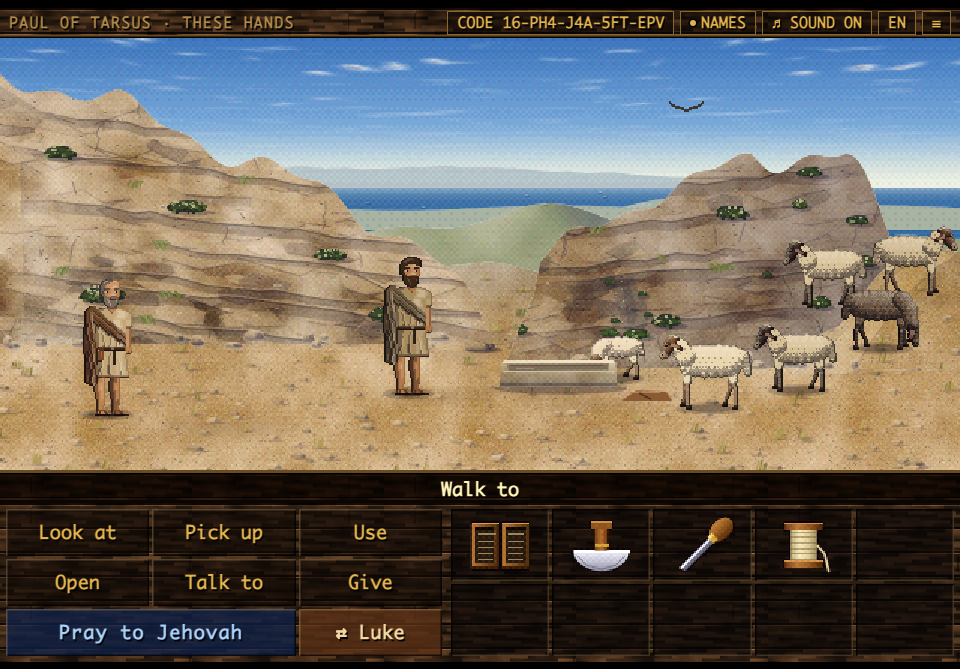
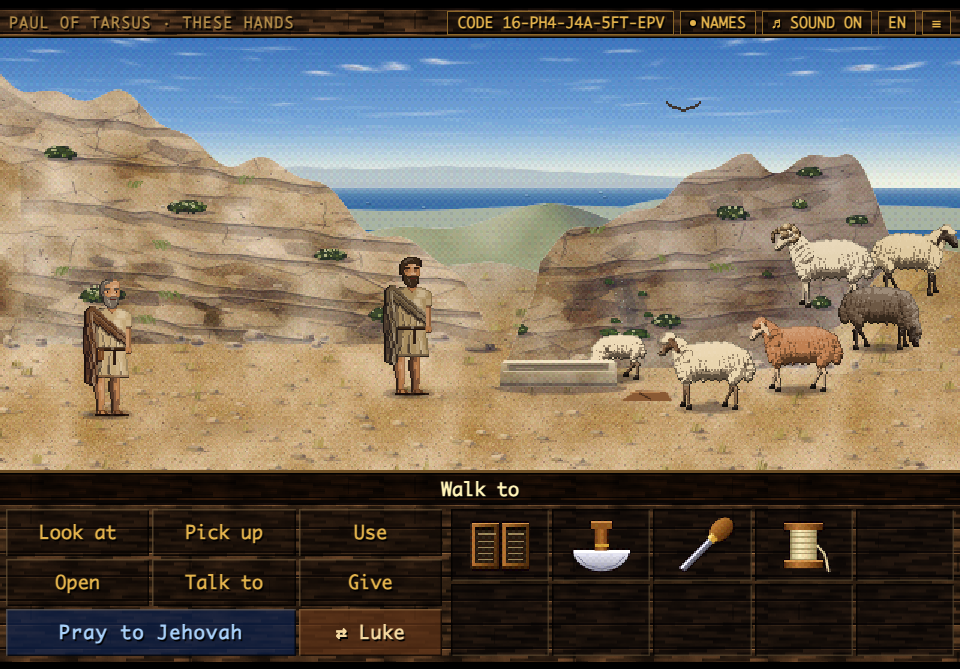
Redraw the sheep after the reference and wire their bleat on Chapter Sixteen's pass

Changed region(s): [[0.625, 0.3288, 1.0, 0.5979], [0.6875, 0.1495, 0.7188, 0.1794]]

diff --git a/shared/beasts.js b/shared/beasts.js
@@ -10,10 +10,10 @@
      mule(g, x, y, dir, fr, load, lit, z)     a pack mule, the same way
      ox(g, x, y, dir, fr, coat, gar, lit, z)  an ox or a bull. coat: its color. gar: a garland round its neck (Acts 14:13). z: depth override
                                               when a yoked team sorts together while still queuing its floor/wall shadows in SQ
-     sheep(g, x, y, dir, fr, look, lit, z)    a ewe or a lamb. look: a number, one of the flock's looks (SHEEP.LOOKS; 6 and 7 are lambs), or
-                                              {fl, face, k, lamb}. fr: 0 stands, 4 to 19 walk, 20 and 21 bleat, 22 and 23 chew, 24 and 25 graze
+     sheep(g, x, y, dir, fr, look, lit, z)    a ewe, ram or lamb. look: a number, one of the flock's looks (SHEEP.LOOKS; 4 is a horned ram, 6 and 7 are lambs), or
+                                              {fl, face, k, ram, lamb}. fr: 0 stands, 4 to 19 walk, 20 and 21 bleat, 22 and 23 chew, 24 and 25 graze
      sheepStill(g, x, y, dir, fr, look)       a sheep painted into a backdrop, with its contact shadow
-     flock(n, seed)                           n sheep's {look, dir, fr}: their looks, ways and poses, a lamb for every three ewes; the room
+     flock(n, seed)                           n sheep's {look, dir, fr}: their looks, ways and poses, a lamb for every three adults and at most one ram; the room
                                               places them, far enough apart that no head lies over another sheep's body
    Walking: everybody covers ground at WALK_V, the animals too, so that a donkey keeps up with whoever leads it.
      frame.donkey(dist, v), frame.mule(dist, v), frame.ox(dist, v), frame.sheep(dist, v, look)
@@ -650,124 +650,198 @@ const OX=(()=>{
 
 /* ================================================================= the sheep ================================================================ */
 const SHEEP=(()=>{
-  /* A ewe of the broad-tailed kind kept in the hills of Asia and Syria, and her lamb: a deep cream fleece in lumpy locks, shaded as a
-     rounded mass lit from above, that hangs a little below the belly line so that the legs come out from under it; a fleece-covered
-     neck carried forward and low; a long, narrow, slightly Roman-nosed head in a darker face color, bare of wool, with a paler muzzle,
-     a dark nostril and a dark almond eye; long ears that droop sideways and back from the poll (never pricked, so that ears and head
-     never make a cross); thin shanks, pale above the dark hooves, the far ones a tone darker and, standing, two drawing units higher in
-     three-quarter perspective; and a broad tail set on at the rump that hangs down over the back of the thighs, in the fleece's own
-     tones. The lamb is a look of its own, not a smaller copy: a shorter, rounder body, longer legs for its size, a bigger head and
-     shorter ears.
+  /* A ewe, ram or lamb of the broad-tailed kind kept in the hills of Asia and Syria, redrawn after the maintainer's reference picture: a deep,
+     plush shaggy fleece in flowing vertical-diagonal locks, shaded in warm earthy tones with sculpted woolly thigh and brisket masses that hang
+     low over the belly; a plump broad-tail cushion set on at the rump; a thick woolly neck blending smoothly out of the shoulder in curved
+     collar folds up into a woolly poll cap crowning the head; a compact, slightly Roman-nosed bare head turned three-quarters toward us, with a
+     light plane along the bridge of the nose, a dark eye with a subtle brow and pale lower lid, and soft pendulous lop ears hanging down beside
+     the cheek (never sticking out or pricked, so ears and head never make a cross); and shorter, sturdier tapering legs in the face's tones with
+     pointed hocks and compact cloven hooves (at rest, the far hooves sit two drawing units higher in three-quarter perspective). A ram (ram:1)
+     carries a fuller ringed neck and thick ribbed horns curving back, down behind the cheek and forward at the tips. A lamb (lamb:1) is a look
+     of its own: a shorter, plumper curly-wool body, taller slender legs for its size, a bigger head and shorter drooping ears.
      Frames: 0 stands; 4 to 19 walk (1, 2, 3 are three moments of that walk); 20 and 21 bleat, the head up and the mouth open; 22 and 23
      chew, the head up and the jaw moving; 24 and 25 graze, the head down to the grass (24 the muzzle in it, 25 lifted a little and chewing).
-     A look is {fl, face, k, lamb}: the fleece and face colors, k a size between about 0.9 and 1.1 (its body plan's measures times k, the
-     head and ears drawn at their own size), and lamb:1. A number picks one of the flock's looks (LOOKS). */
+     A look is {fl, face, k, ram, lamb}: the fleece and face colors, k a size between about 0.9 and 1.1 (its body plan's measures times k, the
+     head and ears drawn at their own size), ram:1, and lamb:1. A number picks one of the flock's looks (LOOKS). */
   const FW=FIG.W,FH=FIG.H,X0=FIG.OX,Y0=FIG.OY;
-  const LOOKS=[{fl:'#e4d8bc',face:'#6e4c34',k:1},{fl:'#d8ccb0',face:'#3a2e28',k:.94},{fl:'#ece2ca',face:'#8a6446',k:1.06},{fl:'#cfc2a6',face:'#5a4030',k:.97},
-    {fl:'#e8dcc2',face:'#c8b294',k:1.02},{fl:'#6a5a4c',face:'#2e2420',k:.98},{fl:'#efe6d2',face:'#7a5a40',k:1,lamb:1},{fl:'#e2d6be',face:'#3e322a',k:1,lamb:1}];
-  const look=v=>typeof v==='number'?LOOKS[((v%LOOKS.length)+LOOKS.length)%LOOKS.length]:Object.assign({fl:'#e4d8bc',face:'#6e4c34',k:1},v||{});
-  /* the body plans: hips and shoulders (SH, SF), where the legs go in (LT), the outline of the fleece, the neck, the head (its length and
-     its radius at the poll and the muzzle), the ears, the tail, the leg's radius, and the walk (REACH drawing units a stance, BEAT seconds) */
+  const LOOKS=[
+    {fl:'#e4d8bc',face:'#6a4a34',k:1},
+    {fl:'#e2d6b8',face:'#3e3129',k:.97},
+    {fl:'#c2885e',face:'#e4cdb2',k:1.02},
+    {fl:'#d6c8ac',face:'#583c2b',k:.98},
+    {fl:'#e8e1d0',face:'#dcd0ba',k:1.06,ram:1},
+    {fl:'#6e5d4f',face:'#342822',k:.98},
+    {fl:'#efe6d0',face:'#74543c',k:1,lamb:1},
+    {fl:'#e4d8be',face:'#3f322a',k:1,lamb:1}];
+  const look=v=>typeof v==='number'?LOOKS[((v%LOOKS.length)+LOOKS.length)%LOOKS.length]:Object.assign({fl:'#e4d8bc',face:'#6a4a34',k:1},v||{});
+  /* warm earthy five-tone ramp (highlight, light, base, shadow, deep) so cream and russet wool keep their warmth in shadow */
+  const warmRamp=(c,warm=1)=>{const[r,g,b]=hex(c),lum=(r*.3+g*.59+b*.11)/255,sh=warm?'#4a3220':'#362822',dp=warm?'#28180e':'#1c1410';
+    return[tint(c,lum>.78?.18:lum>.52?.26:.34),tint(c,lum>.78?.08:.13),c,mix(tint(c,-.22+.05*lum),sh,lum>.65?.32:.24),mix(tint(c,-.46+.08*lum),dp,lum>.65?.46:.38)]};
+  /* open Catmull-Rom curve keeping [x, y, r] along a horn's spiral */
+  const smoothOpen=(P,n=5)=>{const R=[],N=P.length,D=P[0].length;for(let i=0;i<N-1;i++){const p0=P[Math.max(0,i-1)],p1=P[i],p2=P[i+1],p3=P[Math.min(N-1,i+2)],steps=i===N-2?n+1:n;
+    for(let j=0;j<steps;j++){const t=j/n,t2=t*t,t3=t2*t,pt=[];for(let c=0;c<D;c++)pt.push(.5*(2*p1[c]+(p2[c]-p0[c])*t+(2*p0[c]-5*p1[c]+4*p2[c]-p3[c])*t2+(3*p1[c]-p0[c]-3*p2[c]+p3[c])*t3));R.push(pt)}}return R};
+  /* the body plans: hips and shoulders (SH, SF), where the legs go in (LT), the fleece barrel, woolly thigh and chest, neck, head, ears,
+     broad tail, leg radii, and the walk (REACH drawing units a stance, BEAT seconds) */
   const PLAN={
-    ewe:{SH:-15,SF:13,LT:-23,REACH:20,BEAT:.33,
-      body:[[-24,-35],[-21,-38.6],[-15,-40.4],[-8,-41],[0,-40.8],[7,-40.6],[13,-39],[17.5,-35.5],[19.4,-30.5],[17.6,-25.4],[13,-21.6],[6,-20.2],[-2,-19.8],[-10,-20.4],[-17,-22],[-22.4,-25.6],[-25.2,-30.6]],
-      neck:[[14,-33.5,6.6]],
-      head:{len:10.6,r0:4.3,r1:2.4,ear:9,earR:1.85},
-      poses:{rest:{px:23.6,py:-42.4,al:62,jaw:0,en:152,ef:190},20:{px:24.6,py:-44.4,al:32,jaw:16,en:158,ef:192},21:{px:24.8,py:-45,al:24,jaw:26,en:160,ef:192},22:{px:23.6,py:-42.4,al:62,jaw:7,en:152,ef:190},
-        23:{px:23.8,py:-42,al:65,jaw:0,chew:1,en:150,ef:188},24:{px:21.4,py:-15.2,al:82,jaw:0,low:1,en:112,ef:138},25:{px:21.6,py:-17.4,al:76,jaw:7,low:1,en:118,ef:144}},
-      tail:[[-22.6,-34,3.5],[-25,-23.4,2.8]],legR:[3.4,1.3]},
-    lamb:{SH:-10,SF:8.5,LT:-15.5,REACH:14,BEAT:.24,
-      body:[[-15.6,-24.6],[-13,-27.2],[-8,-28.6],[-1,-28.8],[5,-28.2],[9.6,-26],[12.2,-22.4],[11.4,-18.4],[8,-15.6],[2,-14.6],[-4,-14.6],[-10,-15.6],[-14.4,-18],[-16.2,-21.4]],
-      neck:[[8.5,-23.5,4.8]],
-      head:{len:9,r0:3.9,r1:2.2,ear:6.4,earR:1.55},
-      poses:{rest:{px:15.6,py:-31.6,al:56,jaw:0,en:152,ef:188},20:{px:16.6,py:-33.4,al:26,jaw:18,en:158,ef:192},21:{px:16.8,py:-33.8,al:18,jaw:28,en:160,ef:192},22:{px:15.6,py:-31.6,al:56,jaw:7,en:152,ef:188},
-        23:{px:15.8,py:-31.2,al:59,jaw:0,chew:1,en:150,ef:188},24:{px:14.6,py:-11.6,al:82,jaw:0,low:1,en:112,ef:138},25:{px:14.8,py:-13.2,al:74,jaw:7,low:1,en:118,ef:144}},
-      tail:[[-14.6,-23.6,2.4],[-16,-17.4,1.9]],legR:[2.5,1.15]}};
+    ewe:{SH:-14.5,SF:13.2,LT:-20.5,REACH:20,BEAT:.33,
+      body:[[-23.5,-35.2],[-19.2,-40.4],[-12,-42.8],[-4,-43.2],[4.2,-42.6],[11.5,-41.4],[17,-38.2],[20.2,-33],[20.6,-26.6],[18.2,-20.6],[14,-17.6],[8.2,-17.5],[1.2,-18],[-6.8,-18.2],[-14.5,-18.5],[-20.5,-20.8],[-24.5,-26.2],[-25.2,-31.5]],
+      thigh:[[-11.8,-39.2],[-18.2,-40.6],[-23,-36.8],[-24.6,-30.2],[-23,-22.8],[-19.4,-16.8],[-15.2,-15.8],[-12.4,-19.8],[-11,-26.8],[-10.6,-34]],
+      chest:[[8.5,-39.5],[14.5,-39],[19,-34.8],[21,-28.2],[19.8,-21.6],[16.2,-16.6],[11.8,-16.4],[9,-21],[7.8,-29]],
+      neck:[[14,-33,7.6]],
+      head:{len:10.4,r0:4,r1:2.15,ear:8.8,earR:1.95},
+      poses:{rest:{px:23.8,py:-43.4,al:54,jaw:0,en:116,ef:132},20:{px:24.6,py:-45.2,al:30,jaw:16,en:128,ef:142},21:{px:24.8,py:-45.8,al:22,jaw:26,en:132,ef:146},
+        22:{px:23.8,py:-43.4,al:54,jaw:7,en:116,ef:132},23:{px:24,py:-43,al:58,jaw:0,chew:1,en:114,ef:130},24:{px:21.4,py:-14.2,al:80,jaw:0,low:1,en:94,ef:108},
+        25:{px:21.6,py:-16.6,al:74,jaw:7,low:1,en:98,ef:112}},
+      tail:[[-22.2,-34.4,4.2],[-25.8,-25,4.2],[-25.2,-20.6,3.2]],legR:[3.1,1.22]},
+    lamb:{SH:-9.8,SF:8.4,LT:-15,REACH:14,BEAT:.24,
+      body:[[-15.8,-25.2],[-12.8,-28.8],[-7.2,-30.2],[-.8,-30.4],[5.2,-29.6],[10,-27.2],[12.8,-23],[12.6,-18],[9.4,-14.4],[3.2,-13.8],[-3.8,-13.8],[-10,-14.6],[-14.6,-17.4],[-16.6,-21.4]],
+      thigh:[[-8,-28],[-12.6,-28.8],[-15.6,-25.8],[-16.2,-21.2],[-14.6,-16.4],[-11.6,-13.2],[-8.8,-13.6],[-7.4,-18],[-7.2,-23.5]],
+      chest:[[5,-28.2],[9.4,-27.4],[12.4,-23.8],[12.8,-18.8],[10.6,-14.4],[7.6,-13.6],[5.2,-17.4],[4.4,-23]],
+      neck:[[8.6,-23.6,5.2]],
+      head:{len:8.4,r0:3.7,r1:2,ear:6.2,earR:1.6},
+      poses:{rest:{px:15.6,py:-32,al:50,jaw:0,en:118,ef:132},20:{px:16.4,py:-33.8,al:26,jaw:18,en:128,ef:142},21:{px:16.6,py:-34.2,al:18,jaw:28,en:132,ef:146},
+        22:{px:15.6,py:-32,al:50,jaw:7,en:118,ef:132},23:{px:15.8,py:-31.6,al:54,jaw:0,chew:1,en:116,ef:130},24:{px:14.6,py:-10.8,al:80,jaw:0,low:1,en:94,ef:108},
+        25:{px:14.8,py:-12.6,al:72,jaw:7,low:1,en:98,ef:112}},
+      tail:[[-14.6,-24.2,2.8],[-16.4,-18.2,2.4],[-16,-16.2,1.8]],legR:[2.35,1.08]}};
   const planOf=v=>v.lamb?PLAN.lamb:PLAN.ewe;
   const stride=v=>{const P=planOf(v);return P.REACH/.625/2};
   const frame=(dist,v,lk)=>{const L=look(lk),P=planOf(L),c=Math.max(stride(L),Math.abs(v==null?WALK_V:v)*P.BEAT);return 4+Math.floor((dist/c%1+1)%1*16)%16};
   const atPose=(W,ph,off,st,R)=>{if(!W)return{hx:st,lift:0,bend:0};const p=((ph-off)%1+1)%1,B=.625;if(p<B)return{hx:R/2-R*p/B,lift:0,bend:0};
     const v=(p-B)/(1-B),q=Math.sin(Math.PI*v);return{hx:-R/2*Math.cos(Math.PI*v),lift:v?1+Math.round(3.5*q):0,bend:q}};
   /* where each hoof stands: hind far, fore far, hind near, fore near (their phase and their place at rest) */
-  const HOOVES=[[.5,4.6,1],[.75,2.6,0],[0,-2.4,1],[.25,-.8,0]];
+  const HOOVES=[[.5,4.2,1],[.75,2.6,0],[0,-2.8,1],[.25,-1.2,0]];
   const shadowSpan=(fr,lk)=>{const L=look(lk),P=planOf(L),k=L.k||1,W=fr>=1&&fr<20,q=fr>=4?(fr-4)%16:(fr-1)*4,ph=q/16,
       xs=HOOVES.map(([off,st,hind])=>(hind?P.SH:P.SF)*k+atPose(W,ph,off,st,P.REACH).hx),x0=Math.min(...xs)-2.5,x1=Math.max(...xs)+3;return[(x1-x0)/4+1.3,(x0+x1)/4]};
   const smooth=(P,n=4)=>{const R=[],N=P.length;for(let i=0;i<N;i++){const p0=P[(i+N-1)%N],p1=P[i],p2=P[(i+1)%N],p3=P[(i+2)%N];
     for(let j=0;j<n;j++){const t=j/n,t2=t*t,t3=t2*t;R.push([0,1].map(c=>.5*(2*p1[c]+(p2[c]-p0[c])*t+(2*p0[c]-5*p1[c]+4*p2[c]-p3[c])*t2+(3*p1[c]-p0[c]-3*p2[c]+p3[c])*t3)))}}return R};
 
   function sheep(g,x,y,dir,fr,lk){g.save();g.translate(x,y);g.scale(dir*FIG.K,FIG.K);
-    const L=look(lk),P=planOf(L),k=L.k||1,lamb=!!L.lamb,FL=ramp(L.fl),FC=ramp(L.face),SK=ramp(mix(L.face,L.fl,.3)),HOOF=['#4a3e38','#3a302c','#2a221f','#1e1816','#141010'],
+    const L=look(lk),P=planOf(L),k=L.k||1,lamb=!!L.lamb,ram=!!L.ram&&!lamb,FL=warmRamp(L.fl,1),FC=warmRamp(L.face,0),
+      [fr0,fg0,fb0]=hex(L.face),fLum=(fr0*.3+fg0*.59+fb0*.11)/255,
+      SK=warmRamp(fLum<.32?mix(L.face,'#2c2420',.2):mix(L.face,L.fl,.14),0),
+      HOOF=['#4c423c','#3a312c','#29221e','#1d1714','#120e0c'],HORN=['#dfd2b6','#b8a280','#8c7558','#5e4c38','#34271c'],
       W=fr>=1&&fr<20,q=fr>=4&&fr<20?(fr-4)%16:W?(fr-1)*4:0,ph=q/16,o=W&&(q%8===4||q%8===5)?1:0,hd=W?[0,0,0,0,1,2,1,0][q%8]:0,
-      tl=W?Math.round(1.2*Math.cos(6.2832*(ph-.05))):0,HP=Object.assign({},P.poses[fr>=20?Math.min(25,fr):'rest']);
-    if(!HP.low){HP.py+=o+hd;HP.px+=hd*.4}
+      tl=W?Math.round(1.1*Math.cos(6.2832*(ph-.05))):0,HP=Object.assign({},P.poses[fr>=20?Math.min(25,fr):'rest']);
+    if(ram&&!HP.low){HP.py-=1.4;HP.px+=1.2;HP.al-=6}
+    if(!HP.low){HP.py+=o+hd;HP.px+=hd*.35}
     const Zb=new Float32Array(FW*FH).fill(-1e9),Cb=new Array(FW*FH),Pb=new Uint8Array(FW*FH);
     const idx=(px,py)=>py>=0||py<-Y0||px<-X0||px>=FW-X0?-1:(py+Y0)*FW+px+X0;
     const put=(px,py,z,col,part)=>{const i=idx(Math.floor(px),Math.floor(py));if(i>=0&&z>Zb[i]){Zb[i]=z;Cb[i]=col;Pb[i]=part}};
     const partAt=(px,py)=>{const i=idx(Math.floor(px),Math.floor(py));return i<0?0:Pb[i]};
     const set=(px,py,col)=>{const i=idx(Math.floor(px),Math.floor(py));if(i>=0&&Pb[i])Cb[i]=col};
-    const tn=(nx,ny,nz,px,py,ex)=>{const s=nx*.42-ny*.8+nz*.46+((px+py)&1?.05:-.05);return Math.max(0,Math.min(4,(s>.86?0:s>.56?1:s>.18?2:s>-.16?3:4)+(ex||0)))};
-    const hh=(a,b)=>{let n=Math.imul(a*73856093^b*19349663,0x85ebca6b);n^=n>>>13;return(n>>>0)%97};
-    /* wool: the form's light, broken into locks: each lock a pixel of light on its upper side and a pixel of shade under it, set in
-       staggered rows with a little jitter, so that no grid and no plus appears */
-    const wool=(ex,R)=>(nx,ny,nz,px,py)=>{const T=R||FL;let b=tn(nx,ny,nz,px,py,ex);const row=Math.floor((py-o+40)/3),sh=(row%2)*2+(hh(row,7)%2),cx=px+40+sh,lx=((cx%4)+4)%4,ly=((py-o+40)%3+3)%3,
-        j=hh(Math.floor(cx/4),row)%5;if(j<4){if((lx===1||lx===2&&j<2)&&ly===0)b=Math.max(0,b-1);else if(lx===2&&ly===2&&b>=2&&b<4)b++}return T[b]};
+    const tn=(nx,ny,nz,px,py,ex)=>{const s=nx*.34-ny*.84+nz*.42+((px+py)&1?.04:-.04);return Math.max(0,Math.min(4,(s>.84?0:s>.5?1:s>.1?2:s>-.24?3:4)+(ex||0)))};
+    const hh=(a,b)=>{let n=Math.imul((a|0)*73856093^(b|0)*19349663,0x85ebca6b);n^=n>>>13;return(n>>>0)%97};
+    /* wool: flowing vertical-diagonal hanging locks modulated gently (+/-1 tone) round the form's light, never a regular grid or plus */
+    const wool=(ex,mode=0)=>(nx,ny,nz,px,py)=>{const base=tn(nx,ny,nz,px,py,ex),Y=py-o;let b=base;
+      if(mode===2){const col=Math.floor((px+50)/2.8),off=hh(col,13)%4,vy=((Y+50+off)%4+4)%4;
+        if(nx>.48&&b<4)b++;else if(vy===0&&nx<.2&&b>0)b--;else if(vy===3&&b<3)b++;return FL[Math.max(0,Math.min(4,b))]}
+      const skirt=ny>.56?1:0,slant=lamb?.14:.22,u=px+60+(Y+46)*slant+Math.sin((Y+42)*.16)*.55,stepX=lamb?2.9:3.3,
+        col=Math.floor(u/stepX),f=u/stepX-col,stagger=hh(col,31)%5,len=lamb?4:5+(hh(col,17)%3),
+        yIn=(((Math.floor(Y)+60+stagger)%len)+len)%len,seed=hh(col,Math.floor((Math.floor(Y)+60+stagger)/len));
+      if(f>.14&&f<.58&&yIn<len-1){if((yIn===0||(yIn===1&&seed%3<2))&&ny<.3&&b>0)b--}
+      else if(f>=.74&&seed%5<3&&yIn>0&&ny>-.45)b=Math.min(4,base+1);
+      else if(yIn===len-1&&f>.25&&f<.8&&seed%3===0&&ny>-.2)b=Math.min(4,base+1);
+      if(skirt)b=Math.min(4,Math.max(b,base+1));
+      return FL[Math.max(0,Math.min(4,b))]};
     const cap=(x0,y0,r0,x1,y1,r1,cz,mat,part)=>{const dx=x1-x0,dy=y1-y0,L2=dx*dx+dy*dy||1,R=Math.max(r0,r1)+1;
       for(let py=Math.floor(Math.min(y0,y1)-R);py<=Math.max(y0,y1)+R;py++)for(let px=Math.floor(Math.min(x0,x1)-R);px<=Math.max(x0,x1)+R;px++){
         const X=px+.5-x0,Y=py+.5-y0;let t=(X*dx+Y*dy)/L2;t=t<0?0:t>1?1:t;const ex=X-dx*t,ey=Y-dy*t,d=Math.hypot(ex,ey),r=r0+(r1-r0)*t;if(d>r)continue;
         const kk=d/r,w=Math.sqrt(1-kk*kk);put(px,py,cz+r*w,mat(ex/r,ey/r,w,px,py,t),part)}};
-    const mass=(Pt,Lz,R,mat,part)=>{let x0=1e9,x1=-1e9,y0=1e9,y1=-1e9;for(const[a,b]of Pt){x0=Math.min(x0,a);x1=Math.max(x1,a);y0=Math.min(y0,b);y1=Math.max(y1,b)}const N=Pt.length;
+    const ell=(cx,cy,cz,a,b,mat,part)=>{const R=Math.max(a,b)+1;
+      for(let py=Math.floor(cy-R);py<=cy+R;py++)for(let px=Math.floor(cx-R);px<=cx+R;px++){const u=(px+.5-cx)/a,v=(py+.5-cy)/b,q2=1-u*u-v*v;if(q2<0)continue;
+        const w=Math.sqrt(q2),l=Math.hypot(u,v,w);put(px,py,cz+Math.max(a,b)*w,mat(u/l,v/l,w/l,px,py),part)}};
+    const mass=(Pt,Lz,R,mat,part,soft=1)=>{let x0=1e9,x1=-1e9,y0=1e9,y1=-1e9;for(const[a,b]of Pt){x0=Math.min(x0,a);x1=Math.max(x1,a);y0=Math.min(y0,b);y1=Math.max(y1,b)}const N=Pt.length;
       for(let py=Math.floor(y0);py<=y1;py++)for(let px=Math.floor(x0);px<=x1;px++){const cx=px+.5,cy=py+.5;let inn=false,best=1e9,ex=0,ey=0;
         for(let i=0,j=N-1;i<N;j=i++){const[ax,ay]=Pt[j],[bx,by]=Pt[i];if((ay>cy)!==(by>cy)&&cx<(bx-ax)*(cy-ay)/(by-ay)+ax)inn=!inn;
           const dx=bx-ax,dy=by-ay,l2=dx*dx+dy*dy||1;let t=((cx-ax)*dx+(cy-ay)*dy)/l2;t=t<0?0:t>1?1:t;const qx=ax+dx*t-cx,qy=ay+dy*t-cy,d2=qx*qx+qy*qy;if(d2<best){best=d2;ex=qx;ey=qy}}
-        if(!inn)continue;const d=Math.sqrt(best),qq=Math.max(0,1-d/R),l=d||1,nz=Math.sqrt(1-qq*qq);put(px,py,Lz+R*nz,mat(ex/l*qq,ey/l*qq,nz,px,py),part)}};
+        if(!inn)continue;const d=Math.sqrt(best),qq=Math.max(0,1-d/R)*soft,l=d||1,nz=Math.sqrt(1-qq*qq);put(px,py,Lz+R*nz,mat(ex/l*qq,ey/l*qq,nz,px,py),part)}};
     const K=p=>[p[0]*k,p[1]*k+o];
-    /* the legs, behind the fleece: a woolly thigh or forearm, then the thin shank to the hoof */
+    /* the legs: woolly upper cuff tapering into slim bare shanks with a pointed hock behind, knee in front, and dark cloven hooves */
     const leg=([off,st,hind],near)=>{const A=atPose(W,ph,off,st,P.REACH),ex=near?0:1,cz=near?-10:-60,gy=(!W&&!near)?-2:0,sx=(hind?P.SH:P.SF)*k,
-        tx=sx,ty=P.LT*k+o,hx=sx+A.hx,fy=gy-2.6-A.lift,b=A.bend,dx=hx-tx,dy=fy-ty,Ln=Math.hypot(dx,dy),bx=-dy/Ln,by=dx/Ln,
-        jt=hind?.52:.56,jo=hind?(1.2+1.6*b):-(.3+2.6*b),jx=tx+dx*jt+bx*jo,jy=ty+dy*jt+by*jo,[r0,r1]=P.legR,wx=tx+(jx-tx)*.45,wy=ty+(jy-ty)*.45,
-        sk=(nx,ny,nz,px,py)=>SK[Math.min(4,tn(nx,ny,nz,px,py,ex)+(near&&nx<-.3?1:0))];
-      cap(tx,ty,r0*1.1,wx,wy,r0*.78,cz,wool(ex+(near?0:1)),4);cap(wx,wy,r1*1.45,jx,jy,r1*1.2,cz-.5,sk,4);cap(jx,jy,r1*1.2,hx,fy,r1,cz+.5,sk,4);
+        tx=sx,ty=P.LT*k+o,hx=sx+A.hx,fy=gy-3-A.lift,b=A.bend,dx=hx-tx,dy=fy-ty,Ln=Math.hypot(dx,dy)||1,bx=-dy/Ln,by=dx/Ln,
+        [r0,r1]=P.legR,jt=hind?.46:.5,jo=hind?(2.1+1.8*b):-(.15+2.6*b),jx=tx+dx*jt+bx*jo,jy=ty+dy*jt+by*jo,wx=tx+(jx-tx)*.42,wy=ty+(jy-ty)*.42,
+        sk=(nx,ny,nz,px,py)=>{let tb=tn(nx,ny,nz,px,py,ex);if(near&&nx<-.35&&tb<4)tb++;return SK[Math.min(4,tb)]};
+      cap(tx,ty,r0*1.16,wx,wy,r0*.76,cz,wool(ex+(near?0:1),0),4);cap(wx,wy,r1*1.45,jx,jy,r1*1.12,cz-.4,sk,4);
+      if(hind)cap(jx,jy,r1*1.08,jx+bx*1.2,jy+by*1.2,r1*.72,cz+.2,sk,4);else ell(jx,jy,cz+.2,r1*1.18,r1*1.15,sk,4);
+      cap(jx,jy,r1*1.05,hx-.2,fy,r1*.9,cz+.4,sk,4);ell(hx-.1,fy,cz+.5,r1*1.08,r1*1.02,sk,4);
       const hm=(nx,ny,nz,px,py)=>HOOF[Math.min(4,tn(nx,ny,nz,px,py,ex))];
-      if(!A.lift){for(let yy=-3;yy<=-1;yy++)for(let xx=-1;xx<=2;xx++)if(!(yy===-3&&xx===2))put(Math.floor(hx)+xx,gy+yy,cz+2,HOOF[yy===-3?1:xx===2?1:2+ex],5)}
-      else{cap(hx,fy,1.4,hx+.8,fy+2.2,1.3,cz+2,hm,5)}};
+      if(!A.lift){for(let yy=-3;yy<=-1;yy++)for(let xx=-1;xx<=2;xx++){if((yy===-3&&xx===2)||(yy===-3&&xx===-1&&lamb))continue;
+        put(Math.floor(hx)+xx,gy+yy,cz+2,HOOF[Math.min(4,(yy===-3?1:xx===2?1:xx===-1?3:2)+ex)],5)}}
+      else cap(hx-.1,fy,r1,hx+.85,fy+2.3,r1*.96,cz+2,hm,5)};
     leg(HOOVES[0],0);leg(HOOVES[1],0);leg(HOOVES[2],1);leg(HOOVES[3],1);
-    /* the tail: set on at the rump, broad, hanging over the back of the thighs */
-    {const[[a0,a1,r0],[b0,b1,r1]]=P.tail,[x0,y0]=K([a0,a1]),[x1,y1]=K([b0+tl*.4,b1]);cap(x0,y0,r0*k,x1,y1,r1*k,6,wool(1),7)}
-    /* the fleece: lumpy at its edge, hanging a little below the belly */
+    /* the broad tail: plump woolly cushion curving out from the rump behind the thigh */
+    {const T=P.tail.map(([a,b,r])=>[a*k,b*k+o,r*k]);
+      cap(T[0][0],T[0][1],T[0][2],T[1][0]+tl*.3,T[1][1],T[1][2],6.5,wool(0,2),7);
+      cap(T[1][0]+tl*.3,T[1][1],T[1][2]*.92,T[2][0]+tl*.5,T[2][1],T[2][2],7,wool(1,2),7)}
+    /* the fleece: deep shaggy barrel with scalloped lower skirt, plus sculpted woolly thigh and chest */
     {const B=smooth(P.body.map(K)),N=B.length,cx=B.reduce((s,p)=>s+p[0],0)/N,cy=B.reduce((s,p)=>s+p[1],0)/N,
-        F=B.map(([x0,y0],i)=>{const a=Math.atan2(y0-cy,x0-cx),bump=.55*Math.sin(i*2.1)+.35*Math.sin(i*3.7+1);return[x0+Math.cos(a)*bump,y0+Math.sin(a)*bump]});
-      mass(F,10,lamb?7:9.5,wool(0),1)}
-    /* the neck, in the fleece, from the shoulders up to the back of the head */
+        F=B.map(([x0,y0],i)=>{const ang=Math.atan2(y0-cy,x0-cx),low=Math.max(0,Math.sin(ang)),
+          bump=(.42+low*.85)*Math.sin(i*2.3+.4)+(.28+low*.42)*Math.sin(i*4.7+1.3);return[x0+Math.cos(ang)*bump,y0+Math.sin(ang)*bump]});
+      mass(F,10,lamb?7.5:10.5,wool(0,0),1);
+      mass(smooth(P.thigh.map(K),3).map(([x0,y0],i)=>[x0+.32*Math.sin(i*2.7),y0+.42*Math.cos(i*3.1)]),12.2,lamb?5.5:7.5,wool(0,0),1,.8);
+      mass(smooth(P.chest.map(K),3).map(([x0,y0],i)=>[x0+.36*Math.sin(i*2.5+1),y0+.42*Math.cos(i*2.9)]),12.8,lamb?5.5:7.8,wool(0,0),1,.82)}
+    /* the neck: blends smoothly out of the shoulder and rises in curved wool collar folds to the head */
     const hx0=HP.px*k,hy0=HP.py*k,a=HP.al*Math.PI/180,ux=Math.cos(a),uy=Math.sin(a),vx=-uy,vy=ux,
       Hp=(u,v)=>[hx0+u*ux+v*vx,hy0+u*uy+v*vy],lu=(px,py)=>(px+.5-hx0)*ux+(py+.5-hy0)*uy,lv=(px,py)=>(px+.5-hx0)*vx+(py+.5-hy0)*vy,Hd=P.head;
-    {const[[n0,n1,nr0]]=P.neck,[s0,s1]=K([n0,n1]),[e0,e1]=Hp(-1.4,.8),m0=(s0+e0)/2+(HP.low?1.8:-.4),m1=(s1+e1)/2+(HP.low?-1.6:-.9);
-      cap(s0,s1,nr0*k,m0,m1,(nr0*k+Hd.r0)/2+.4,20,wool(0),2);cap(m0,m1,(nr0*k+Hd.r0)/2+.4,e0,e1,Hd.r0+.3,21,wool(0),2)}
-    /* the head: the skull and the upper muzzle, and the lower jaw, which opens on its hinge */
-    const ja=(HP.jaw||0)*Math.PI/180,hu=Hd.len*.42,hv=Hd.r0*.55,rot=(u,v)=>[hu+(u-hu)*Math.cos(ja)-(v-hv)*Math.sin(ja),hv+(u-hu)*Math.sin(ja)+(v-hv)*Math.cos(ja)],
-      face=(ex,R)=>(nx,ny,nz,px,py)=>{const T=R||FC,u=lu(px,py),b=tn(nx,ny,nz,px,py,ex);return u>Hd.len-2.6+((px+py)&1?.4:-.4)?mix(T[Math.max(0,b-1)],L.fl,.28):T[b]};
-    {const[a0,a1]=Hp(0,0),[b0,b1]=Hp(Hd.len,-.4);cap(a0,a1,Hd.r0,b0,b1,Hd.r1,30,face(0),3)}
-    {const[a0,a1]=Hp(hu,hv*.6),[b0,b1]=Hp(...rot(Hd.len-.6,Hd.r1*.55)),jl=HP.chew?.7:0;cap(a0,a1,Hd.r0*.6,b0+jl*ux,b1+jl*uy,Hd.r1*.62,29,face(1),3)}
-    if(HP.jaw){const Q=[Hp(hu+1,hv*.5),Hp(Hd.len-.2,Hd.r1*.25),Hp(...rot(Hd.len-.6,Hd.r1*.2))];let x0=99,x1=-99,y0=99,y1=-99;for(const[p,qq]of Q){x0=Math.min(x0,p);x1=Math.max(x1,p);y0=Math.min(y0,qq);y1=Math.max(y1,qq)}
-      for(let py=Math.floor(y0);py<=y1;py++)for(let px=Math.floor(x0);px<=x1;px++){let c=false;for(let i=0,j=2;i<3;j=i++){const[xi,yi]=Q[i],[xj,yj]=Q[j];if(yi>py+.5!==yj>py+.5&&px+.5<(xj-xi)*(py+.5-yi)/(yj-yi)+xi)c=!c}if(c)put(px,py,31,'#3a1a18',3)}}
-    /* the ears: long, drooping out and back from the poll; the near one in front with its paler inside, the far one behind the head */
-    const ear=(u0,v0,ang,len,r,cz,near)=>{const[b0,b1]=Hp(u0,v0),ea=ang*Math.PI/180,ex=Math.cos(ea),ey=Math.sin(ea),[t0,t1]=[b0+ex*len,b1+ey*len],
-        IN=ramp(mix(L.face,'#d89a84',.35));
-      cap(b0,b1,r,t0,t1,r*.75,cz,(nx,ny,nz,px,py,t)=>t>.86?FC[4]:near&&t>.22&&nz>.5&&ny>-.35?IN[t>.6?2:1]:FC[Math.min(4,tn(nx,ny,nz,px,py,near?1:2))],6)};
-    ear(.6,-Hd.r0*.62,HP.ef,Hd.ear*.86,Hd.earR*.9,27,0);ear(.5,-Hd.r0*.2,HP.en,Hd.ear,Hd.earR,40,1);
-    /* the eye: dark almond with a pale lower lid; the nostril; a line of mouth */
-    {const[e0,e1]=Hp(Hd.len*.3,-Hd.r0*.34),X=Math.floor(e0),Y=Math.floor(e1),es=(x,y,c)=>{if(partAt(x,y)===3)set(x,y,c)};
-      es(X,Y,'#120c0a');es(X+(ux>0?1:-1)*0,Y,'#120c0a');es(X+1,Y,'#2a1e18');es(X,Y+1,FC[1]);es(X+1,Y+1,FC[1])}
-    {const[n0,n1]=Hp(Hd.len-.4,-Hd.r1*.35);if(partAt(n0,n1)===3)set(n0,n1,'#1e1412')}
-    if(!HP.jaw)for(let u=Hd.len-3.2;u<=Hd.len-.4;u+=.5){const[p,qq]=Hp(u,Hd.r1*.55);if(partAt(p,qq)===3)set(p,qq,FC[4])}
+    {const[[n0,n1,nr0]]=P.neck,[s0,s1]=K([n0,n1]),[e0,e1]=Hp(-1.4,.9),m0=(s0+e0)/2+(HP.low?2.2:-.3),m1=(s1+e1)/2+(HP.low?-1.4:-.6),
+        nxA=e0-s0,nyA=e1-s1,nLen=Math.hypot(nxA,nyA)||1,nux=nxA/nLen,nuy=nyA/nLen,rBoost=ram?1.12:1,bodyW=wool(0,0),
+        ruff=(nx,ny,nz,px,py)=>{const X=px+.5-s0,Y=py+.5-s1,along=X*nux+Y*nuy,across=-X*nuy+Y*nux;
+          if(along<2&&!ram)return bodyW(nx,ny,nz,px,py);
+          const base=tn(nx,ny,nz,px,py,0),ring=along+across*across*.03+Math.sin(across*.65)*.35,step=lamb?3.2:ram?3.3:3.8,
+            phR=((ring%step)+step)%step,notch=hh(Math.floor(across/2.4),Math.floor(ring/step))%5,str=ram?4:3;
+          let b=base;if(phR<1.1&&notch<str&&ny<.35&&b>0)b--;else if(phR>step-.85&&notch<str&&ny>-.4&&b<4)b=Math.min(4,base+1);
+          return FL[Math.max(0,Math.min(4,b))]},
+        neckSeg=(x0,y0,r0,z0,x1,y1,r1,z1)=>{const dx=x1-x0,dy=y1-y0,L2=dx*dx+dy*dy||1,R=Math.max(r0,r1)+1;
+          for(let py=Math.floor(Math.min(y0,y1)-R);py<=Math.max(y0,y1)+R;py++)for(let px=Math.floor(Math.min(x0,x1)-R);px<=Math.max(x0,x1)+R;px++){
+            const X=px+.5-x0,Y=py+.5-y0;let t=(X*dx+Y*dy)/L2;t=t<0?0:t>1?1:t;const ex=X-dx*t,ey=Y-dy*t,d=Math.hypot(ex,ey),r=r0+(r1-r0)*t;if(d>r)continue;
+            const kk=d/r,w=Math.sqrt(1-kk*kk);put(px,py,z0+(z1-z0)*t+r*w,ruff(ex/r,ey/r,w,px,py),2)}};
+      neckSeg(s0,s1,nr0*k*rBoost,13.5,m0,m1,(nr0*k*rBoost+Hd.r0*1.12)/2+.4,17.5);
+      neckSeg(m0,m1,(nr0*k*rBoost+Hd.r0*1.12)/2+.4,17.5,e0,e1,Hd.r0*(ram?1.16:1.05),21);
+      if(!HP.low){const[t0,t1]=Hp(1.6,Hd.r0*1.38);neckSeg(s0+3*k,s1+4.8*k,(lamb?3.5:4.8)*k*rBoost,14.5,t0-1.2,t1+2.2,(lamb?2.6:3.5)*k*rBoost,19.5)}}
+    /* the head: slightly Roman-nosed bare skull and jaw, crowned by a woolly poll cap */
+    const ja=(HP.jaw||0)*Math.PI/180,hu=Hd.len*.38,hv=Hd.r0*.5,rot=(u,v)=>[hu+(u-hu)*Math.cos(ja)-(v-hv)*Math.sin(ja),hv+(u-hu)*Math.sin(ja)+(v-hv)*Math.cos(ja)],
+      faceMat=ex=>(nx,ny,nz,px,py)=>{const u=lu(px,py),v=lv(px,py),dt=(px+py)&1?.35:-.35;let b=tn(nx,ny,nz,px,py,ex);
+        if(v<-.55+dt&&u>1&&u<Hd.len-.5&&b>0)b=Math.max(0,b-1);if(v>1.9&&u>1.5&&u<Hd.len-2.4&&b<4)b=Math.min(4,b+1);
+        return fLum>=.25&&fLum<=.65&&u>Hd.len-2.3+dt?mix(FC[Math.max(0,b)],L.fl,.25):FC[Math.max(0,Math.min(4,b))]};
+    {const[a0,a1]=Hp(0,-.2),[m0,m1]=Hp(Hd.len*.52,-.85),[b0,b1]=Hp(Hd.len,-.15),[c0,c1]=Hp(Hd.len*.26,Hd.r0*.32);
+      cap(a0,a1,Hd.r0*1.02,m0,m1,Hd.r0*.78,30,faceMat(0),3);cap(m0,m1,Hd.r0*.76,b0,b1,Hd.r1,30.5,faceMat(0),3);
+      ell(c0,c1,29.8,Hd.r0*.85,Hd.r0*.76,faceMat(0),3)}
+    {const[a0,a1]=Hp(hu,hv*.52),[b0,b1]=Hp(...rot(Hd.len-.7,Hd.r1*.55)),jl=HP.chew?.65:0;cap(a0,a1,Hd.r0*.55,b0+jl*ux,b1+jl*uy,Hd.r1*.58,29.2,faceMat(1),3)}
+    if(HP.jaw){const Q=[Hp(hu+.8,hv*.42),Hp(Hd.len-.2,Hd.r1*.2),Hp(...rot(Hd.len-.6,Hd.r1*.18))];let x0=99,x1=-99,y0=99,y1=-99;for(const[p,qq]of Q){x0=Math.min(x0,p);x1=Math.max(x1,p);y0=Math.min(y0,qq);y1=Math.max(y1,qq)}
+      for(let py=Math.floor(y0);py<=y1;py++)for(let px=Math.floor(x0);px<=x1;px++){let c=false;for(let i=0,j=2;i<3;j=i++){const[xi,yi]=Q[i],[xj,yj]=Q[j];if(yi>py+.5!==yj>py+.5&&px+.5<(xj-xi)*(py+.5-yi)/(yj-yi)+xi)c=!c}if(c)put(px,py,31.2,'#441c1a',3)}}
+    {const[p0,p1]=Hp(-1.8,-1.5),[p2,p3]=Hp(2.4,-Hd.r0*.74),[p4,p5]=Hp(-.6,Hd.r0*.42),
+        capWool=(nx,ny,nz,px,py)=>{let b=tn(nx,ny,nz,px,py,0);const h=hh(px+30,py+60)%5;if(ny<-.2&&h<2&&b>0)b--;else if(ny>.2&&h===4&&b<4)b++;return FL[b]};
+      cap(p0,p1,Hd.r0*(ram?.92:.98),p2,p3,Hd.r0*(ram?.56:.7),34,capWool,2);cap(p0,p1,Hd.r0*.85,p4,p5,Hd.r0*.66,32,capWool,2)}
+    /* the drooping lop ears: soft teardrop leaves hanging down beside the cheek */
+    const ear=(u0,v0,ang,len,r,cz,near)=>{const[b0,b1]=Hp(u0,v0),ea=ang*Math.PI/180,ex=Math.cos(ea),ey=Math.sin(ea),
+        midx=b0+ex*len*.52+(near?-.4:.5),midy=b1+ey*len*.52,t0=b0+ex*len+(near?-.9:1.1),t1=b1+ey*len,
+        earMat=(nx,ny,nz,px,py,t)=>{let b=tn(nx,ny,nz,px,py,near?0:2);if(t>.85)return FC[Math.min(4,b+1)];
+          if(near){if(nx>.3&&t>.1&&t<.82)return FC[Math.max(0,b-1)];if(nx<-.32&&t>.14)return FC[Math.min(4,b+1)]}return FC[Math.max(0,Math.min(4,b))]};
+      cap(b0,b1,r*.75,midx,midy,r*1.08,cz,earMat,6);cap(midx,midy,r*1.05,t0,t1,r*.55,cz+.2,earMat,6)};
+    if(!ram){ear(1,-Hd.r0*.76,HP.ef,Hd.ear*.84,Hd.earR*.84,26,0);ear(-.8,-Hd.r0*.12,HP.en+4,Hd.ear,Hd.earR,40,1)}
+    else ear(.6,.1,HP.en+16,Hd.ear*.6,Hd.earR*.74,34,1);
+    /* the ram's curled ribbed horns */
+    if(ram){const hornArc=(pts,cz,far)=>{const S=smoothOpen(pts,5);for(let i=0;i<S.length-1;i++){const t=i/(S.length-1),[x0,y0,r0]=S[i],[x1,y1,r1]=S[i+1];
+        cap(x0,y0,r0,x1,y1,r1,cz+(far?0:t*6),(nx,ny,nz,px,py)=>{let b=tn(nx,ny,nz,px,py,far?1:0);const rib=Math.sin(t*30+(far?1.2:0));
+          if(rib>.38&&t<.86&&b>0)b--;else if(rib<-.42&&b<4)b++;if(t>.76)b=Math.min(4,b+1);return HORN[Math.max(0,Math.min(4,b))]},8)}},
+        Hpt=(u,v,r)=>{const[wx,wy]=Hp(u,v);return[wx,wy,r]};
+      hornArc([Hpt(1.5,-Hd.r0*.72,2.2),Hpt(.8,-Hd.r0*1.75,2.1),Hpt(3.8,-Hd.r0*2.15,1.85),Hpt(7.2,-Hd.r0*1.75,1.48),Hpt(9.2,-Hd.r0*1.12,1.05)],24,1);
+      hornArc([Hpt(.6,-Hd.r0*.65,2.65),Hpt(-3,-Hd.r0*1.48,2.55),Hpt(-6.4,-Hd.r0*.55,2.3),Hpt(-5.8,Hd.r0*.82,1.95),Hpt(-2,Hd.r0*1.38,1.55),Hpt(1.6,Hd.r0*.88,1.15)],44,0)}
+    /* the eye with brow shadow and light lower lid; nostril; closed mouth line */
+    {const[e0,e1]=Hp(Hd.len*.34,-Hd.r0*.28),X=Math.floor(e0),Y=Math.floor(e1),es=(xx,yy,c)=>{if(partAt(xx,yy)===3)set(xx,yy,c)};
+      es(X,Y-1,FC[4]);es(X+1,Y-1,FC[3]);es(X,Y,'#120c0a');es(X+1,Y,'#281e18');es(X,Y+1,fLum<.34?FC[1]:FC[0]);es(X+1,Y+1,FC[1])}
+    {const[n0,n1]=Hp(Hd.len-.45,-Hd.r1*.26),[n2,n3]=Hp(Hd.len-.95,-Hd.r1*.14);
+      if(partAt(n0,n1)===3)set(n0,n1,'#1a1210');if(partAt(n2,n3)===3&&fLum>.3)set(n2,n3,FC[4])}
+    if(!HP.jaw)for(let u=Hd.len-3;u<=Hd.len-.3;u+=.45){const[p,qq]=Hp(u,Hd.r1*.5);if(partAt(p,qq)===3)set(p,qq,FC[4])}
     /* small holes left between parts are closed in the color beside them */
     {const seen=new Uint8Array(FW*FH);for(let i=0;i<FW*FH;i++){if(Pb[i]||seen[i])continue;const st=[i],comp=[];let edge=false;seen[i]=1;
       while(st.length){const kq=st.pop(),xx=kq%FW,yy=(kq-xx)/FW;comp.push(kq);if(!xx||!yy||xx===FW-1||yy===FH-1)edge=true;
         for(const j of[kq-1,kq+1,kq-FW,kq+FW])if(j>=0&&j<FW*FH&&!seen[j]&&!Pb[j]&&Math.abs(j%FW-xx)<=1){seen[j]=1;st.push(j)}}
-      if(!edge&&comp.length<5)for(const kq of comp){const n=[kq-1,kq+1,kq-FW,kq+FW].find(j=>Pb[j]&&Pb[j]!==10);if(n!=null){Cb[kq]=Cb[n];Pb[kq]=10}}}}
+      if(!edge&&comp.length<6)for(const kq of comp){const n=[kq-1,kq+1,kq-FW,kq+FW].find(j=>Pb[j]&&Pb[j]!==10);if(n!=null){Cb[kq]=Cb[n];Pb[kq]=10}}}}
     for(let i=0;i<FW*FH;i++)if(Pb[i]){g.fillStyle=Cb[i];g.fillRect(i%FW-X0,Math.floor(i/FW)-Y0,1,1)}
     g.restore()}
-  /* the bleat: two or three wavering nasal notes, a ewe's lower than a lamb's */
-  const sound=lk=>{const L=look(lk),f=L.lamb?620:430,t=now();
+  /* the bleat: two wavering nasal notes, deepest for a ram, mid for a ewe, higher for a lamb */
+  const sound=lk=>{const L=look(lk),f=L.lamb?620:L.ram?340:430,t=now();
     for(const[d,f0,f1,h]of[[0,f,f*.97,.2],[.21,f*1.04,f*.9,.34]])tone({f:f0,to:f1,t:t+d,d:h,type:'sawtooth',v:.03,a:.02,sus:1,vib:9,vibd:.6,lp:[[1800,0],[1100,h]]})};
   return{paint:sheep,frame,look,LOOKS,plan:PLAN,stride,sw:11,span:shadowSpan,sound,voice:[[0,20],[120,21],[330,20],[420,21],[560,0]]}})();
 /* =============================================================== end of the sheep ============================================================ */
@@ -785,6 +859,7 @@ return{donkey:place('donkey',DONKEY),mule:place('mule',MULE),
   /* a sheep that stands in the room's depth queue (an actor, or one of a flock that a room's draw places), and one painted into a backdrop */
   sheep:(g,x,y,dir,fr,lk,lit,z)=>{const[sw,sx]=SHEEP.span(fr,lk);figure(g,x,y,lit,'sheep'+(dir<0?'-1':'1')+'|'+fr+'|'+(typeof lk==='object'?JSON.stringify(lk):lk|0),s=>SHEEP.paint(s,0,0,dir,fr,lk),sw,dir*sx,z)},
   sheepStill:(g,x,y,dir,fr,lk)=>{const[sw,sx]=SHEEP.span(fr,lk),cx=x+dir*sx;oval(g,cx,y-.4,sw,2,'rgba(24,18,32,.2)');oval(g,cx,y-.4,sw*.68,1.3,'rgba(24,18,32,.24)');SHEEP.paint(g,x,y,dir,fr,lk)},
-  flock:(n,seed)=>{const r=rng(seed||7),L=SHEEP.LOOKS,out=[];for(let i=0;i<n;i++){const lamb=i%4===3;out.push({look:lamb?6+(i>>2)%2:Math.floor(r()*6),dir:r()<.5?-1:1,fr:[0,24,25,0,22,24][Math.floor(r()*6)],ph:r()})}return out},
+  flock:(n,seed)=>{const r=rng(seed||7),ewes=[0,1,2,3,5],out=[];let hasRam=0;for(let i=0;i<n;i++){const lamb=i%4===3;let lk=lamb?6+(i>>2)%2:Math.floor(r()*6);
+    if(!lamb&&lk===4){if(hasRam)lk=ewes[Math.floor(r()*ewes.length)];else hasRam=1}out.push({look:lk,dir:r()<.5?-1:1,fr:[0,24,25,0,22,24][Math.floor(r()*6)],ph:r()})}return out},
   frame:{donkey:DONKEY.frame,mule:MULE.frame,ox:OX.frame,sheep:SHEEP.frame},paint:{donkey:DONKEY.paint,mule:MULE.paint,ox:OX.paint,sheep:SHEEP.paint},kinds:KINDS,speak,pose,
   DONKEY_STRIDE:DONKEY.stride,DONKEY_BEAT:DONKEY.beat}})();

diff --git a/levels/chapter16.js b/levels/chapter16.js
@@ -492,11 +492,12 @@ function troughPass16(g,v,cut){const P=[166.4,116.4,167,108.6,168,107.6,204,107.
   const W=[169,108.8,203,108.6,202.6,110.8,169.4,111];poly(g,W,v==='p'?'#4c6c7e':'#7a6e5e');
   if(v==='p'){R(g,170,109,31,.5,'#a8c4cc');R(g,176,110,8,.5,rgba('#e8f0f0',.5))}else{R(g,170,109,31,.5,'#5e5446');R(g,172,110.2,6,.5,'#9a8e78')}
   R(g,167.6,111.2,37,.5,'#c8bca2')}
-function drawPass16(g,t){if(SPass16)SPass16.draw(g,t);const B=SHARED.beasts;LOOKPass16=LOOKPass16||B.flock(8,1662);const ews=EWEPass16(),lit=lightAt('pass16',200,116);
-  FLOCKPass16().forEach(([x,y,d,p],i)=>{const o=LOOKPass16[i],fr=p===1?24+(Math.floor(t/(900+i*130)+o.ph*7)%2):p===2?22+(Math.floor(t/(300+i*20)+o.ph*5)%2):0;
+function drawPass16(g,t){if(SPass16)SPass16.draw(g,t);const B=SHARED.beasts;LOOKPass16=LOOKPass16||B.flock(8,1936);const ews=EWEPass16(),lit=lightAt('pass16',200,116);
+  FLOCKPass16().forEach(([x,y,d,p],i)=>{const o=LOOKPass16[i],base=p===1?24+(Math.floor(t/(900+i*130)+o.ph*7)%2):p===2?22+(Math.floor(t/(300+i*20)+o.ph*5)%2):0,
+    fr=i===0?B.pose('flock16',base):base;
     B.sheep(g,x,y,d,fr,o.look,lit)});
-  /* the ewe: she chews and looks at whoever comes up the path */
-  B.sheep(g,ews[0],ews[1],ews[2],22+(Math.floor(t/280)%2),{fl:'#ece2ca',face:'#7a5a40',k:1.06},lit);
+  /* the ewe: she chews and looks at whoever comes up the path, and bleats when spoken to */
+  B.sheep(g,ews[0],ews[1],ews[2],B.pose('ewe16',22+(Math.floor(t/280)%2)),{fl:'#ece2ca',face:'#7a5a40',k:1.06},lit);
   if(!F.pass)depth(121,()=>{poly(g,[207,121,212,117.6,222,118,224,121],'#8a5a34');R(g,210,118,10,.6,'#b88250');stroke(g,[213,118.4,217,120.6],'#3a2416',.5)})}
 /* ==== ART pass16: end ==== */
 
@@ -1520,8 +1521,8 @@ ROOMS.pass16={space:.4,walk:[16,304,112,138],mood:'pass',amb:AMB.pass16,
   {name:'gulf_and_lesbos',x:40,y:24,w:220,h:26,wx:120,wy:114,look:'gulf_and_lesbos_look'},
   {name:'spring',x:196,y:78,w:26,h:16,wx:186,wy:122,look:'spring_up_in_the_rocks'},
   {name:'trough',x:166,y:104,w:40,h:14,wx:160,wy:124,look:()=>say(P,F.pass?'the_trough_is_full':'the_trough_is_dry')},
-  {name:'flock',get x(){return F.pass?20:256},y:82,w:60,get h(){return F.pass?28:34},wx:200,wy:132,look:()=>say(P,F.pass?'the_flock_off_the_path':'the_flock_on_the_path'),talk:'a_sheep_wont_answer'},
-  {name:'ewe',get x(){return EWEPass16()[0]-8},get y(){return EWEPass16()[1]-12},w:18,h:12,get wx(){return EWEPass16()[0]-22},wy:126,look:()=>say(P,F.pass?'the_ewe_has_had_her_drink':'ewe_chews_and_looks_at_me'),talk:'a_sheep_wont_answer'},
+  {name:'flock',get x(){return F.pass?20:256},y:82,w:60,get h(){return F.pass?28:34},wx:200,wy:132,look:()=>say(P,F.pass?'the_flock_off_the_path':'the_flock_on_the_path'),talk:async()=>{SHARED.beasts.speak('flock16','sheep',LOOKPass16&&LOOKPass16[0].look);await say(P,'a_sheep_wont_answer')}},
+  {name:'ewe',get x(){return EWEPass16()[0]-8},get y(){return EWEPass16()[1]-12},w:18,h:12,get wx(){return EWEPass16()[0]-22},wy:126,look:()=>say(P,F.pass?'the_ewe_has_had_her_drink':'ewe_chews_and_looks_at_me'),talk:async()=>{SHARED.beasts.speak('ewe16','sheep');await say(P,'a_sheep_wont_answer')}},
   {name:'water_skin',x:206,y:116,w:20,h:8,wx:196,wy:128,vis:()=>!F.pass,look:'the_water_skin_split_seam',useWith:onSkin,pickup:'it_is_the_shepherds'},
   {name:'way_down_to_assos',x:266,y:60,w:54,h:52,wx:296,wy:116,dir:1,exit:downToAssos,look:()=>say(P,F.pass?'the_short_way_down':'the_flock_fills_the_path_down')},
   {name:'way_back',x:0,y:60,w:16,h:80,wx:22,wy:126,dir:-1,exit:()=>goto16('road16',270,116,-1),look:'the_way_back_to_the_road'}].map(BOTH)};

diff --git a/docs/look-and-sound.md b/docs/look-and-sound.md
@@ -38,7 +38,7 @@ The pack mule is a painter of its own and a size bigger than the donkey: its bac
 
 The ox is the heaviest of the three, drawn after a reference picture the maintainer supplied: a massive body whose back runs from a rounded rump to a high, heavy hump over the shoulder, a deep chest low between the forelegs, a thick neck with curved skin folds behind the jaw and a dewlap hanging under it from the throat to the brisket, stout legs that are dark below the knee and the hock on compact cloven hooves, and a tail set on at the croup that hugs the buttock down to a dark switch behind the hock. It carries its head low and forward, turned three-quarters toward us: a broad brow with an angled eye under its lid, a tuft of darker hair on the poll, dark-rimmed cupped ears below the horns, and a compact pale-ringed muzzle with a dark nostril. The horns are shaded horn crescents, thick at the root, that curve out, up and a little in to dark tips. The same painter takes its tones from the coat it is given: rich umber brown for Zenon's oxen at Derbe and at the Cilician Gates, near white for the garlanded bulls at the gate of Lystra, whose garland of leaves and yellow flowers hangs round the neck in a curve over the dewlap. Like the people, every animal stands on a contact shadow centered under its hooves—widening and narrowing with the stride—and casts floor and wall-bent silhouette shadows away from the nearest lights. Two oxen that stand together stand a head apart, so that each head stands clear of the other: the far ox of a yoked pair a little higher, as if the pair were seen a little from the front. The yoke rests on the crest of the near ox's neck just behind its horns, and the wagon stands close behind the team, its pole a stub that ends short of the near ox's tail. It plods in the same four beats with a long, slow step, swinging its legs from the hip and the shoulder: the body sinks a pixel as each fore hoof takes its weight, hip and shoulder roll up in turn, the head sways a little and the dewlap swings after it, and at the game's walking speed its hooves do not slip at all. When Paul speaks to Zenon's near ox, it lows: it lifts the same head a little and pushes its muzzle forward, the dewlap drawn taut, and opens its mouth with a deep, warm note of about a second and a half. When the priest of Zeus gives up at Lystra, the two bulls turn and are led out of the picture after him. `node tools/playtest.mjs oxen` shows every frame of its walk and voice enlarged.
 
-The sheep of Chapter Sixteen's flock are ewes and lambs of the broad-tailed kind kept in the hills of Asia: a deep cream fleece in lumpy locks, shaded as one rounded mass lit from above and hanging a little below the belly, so that the thin dark shanks come out from under it; a fleece-covered neck carried forward and low; a long, narrow, bare head in a darker face color with a paler muzzle, a dark nostril and a dark eye; long ears that droop out and back from the poll, never pricked, so that ears and head never make a cross; and a broad tail set on at the rump that hangs over the back of the thighs. The flock varies in its fleece (cream, warm white, grey-brown, one dark), its face and its size; a lamb has a shorter, rounder body, longer legs for its size, a bigger head and shorter ears. A ewe's back stands about as high as a man's belt. They walk with short, quick steps at the people's pace, without a slip; they graze with the head down by the grass, chew with the head up, and bleat, a lamb higher than a ewe.
+The sheep of Chapter Sixteen's flock are ewes, a horned ram and lambs of the broad-tailed kind kept in the hills of Asia, redrawn after the maintainer's reference picture: a deep, shaggy fleece in flowing vertical-diagonal locks shaded in warm earthy tones with sculpted woolly thigh and chest masses hanging low over the belly; a plump broad tail set on at the rump; a thick woolly neck blending out of the shoulder in curved collar folds up into a woolly poll cap crowning the head; a compact, slightly Roman-nosed bare head turned three-quarters toward us with a light plane along the bridge of the nose, a dark eye with a pale lower lid, and soft pendulous lop ears hanging down beside the cheek (never pricked, so that ears and head never make a cross); and sturdy tapering shanks in the face's tones with pointed hocks and compact dark hooves. The flock varies in its fleece (cream, warm ivory, russet fawn, oatmeal, dark brown-grey), its face and its size; the ram carries a fuller ringed neck and thick ribbed horns curving back, down behind the cheek and forward at the tips; a lamb has a shorter, plumper curly-wool body, taller slender legs for its size, a bigger head and shorter drooping ears. A ewe's back stands about as high as a man's belt. They walk with short, quick steps at the people's pace, without a slip; they graze with the head down by the grass, chew with the head up, and bleat when spoken to (deepest for a ram, mid for a ewe, higher for a lamb), with beaten-metal sheep bells sounding quietly on the pass.
 
 Anyone may kneel, on both knees or on one, with the arms down or the hands folded low in front, and always with the head bowed and the eyes shut, as the elders at Miletus kneel with Paul (Acts 20:36). The body sinks by the length of a shin; the shins lie back along the ground under the hem and the feet behind stand on their toes, the sole turned back, or on one knee the near foot is set forward under the raised knee. Folded hands meet in a V of the two forearms; under a mantle the near arm stays covered and the hands lie nearer the far side, so that no forearm crosses the mantle's edge. No arm is spread or raised. A figure may also sit bound, as Agabus binds himself with Paul's belt (Acts 21:11): the feet side by side and the wrists together low in front, each wound round with the cloth, its turns running with the limbs and its loose end hanging a little way down from the wrists, so that nothing lies across anything as a cross.
 
